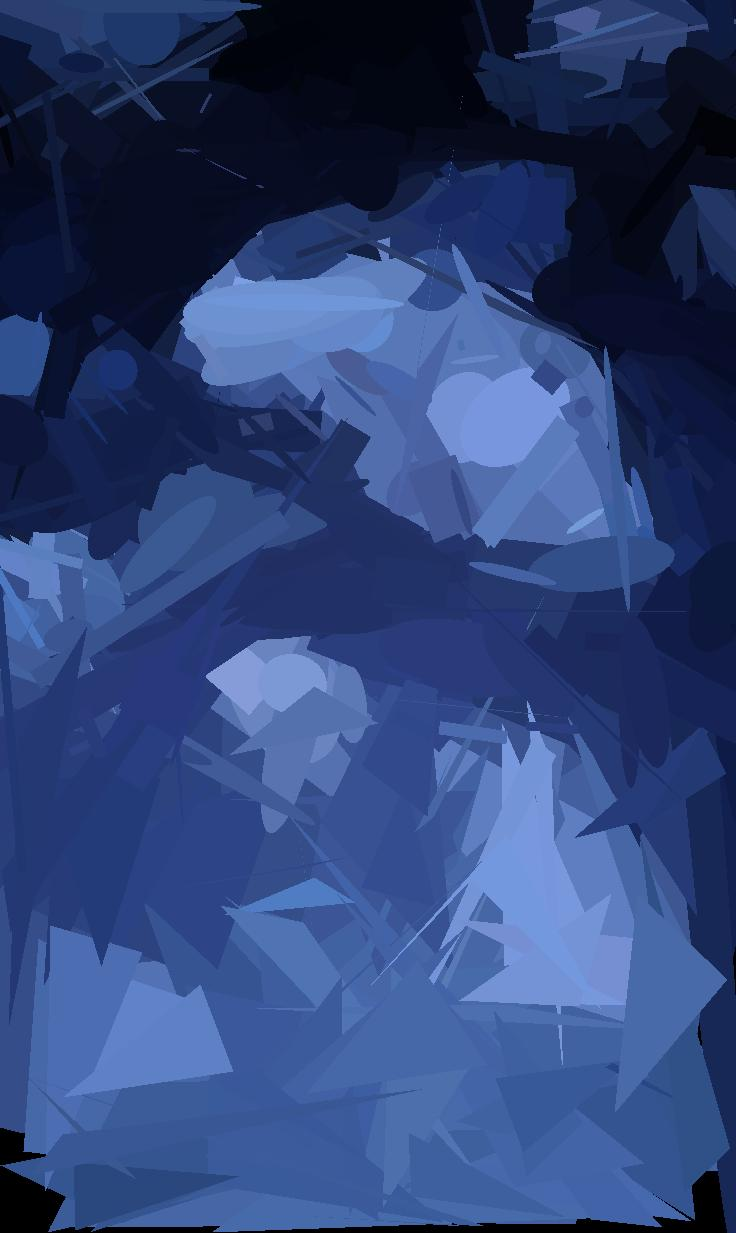
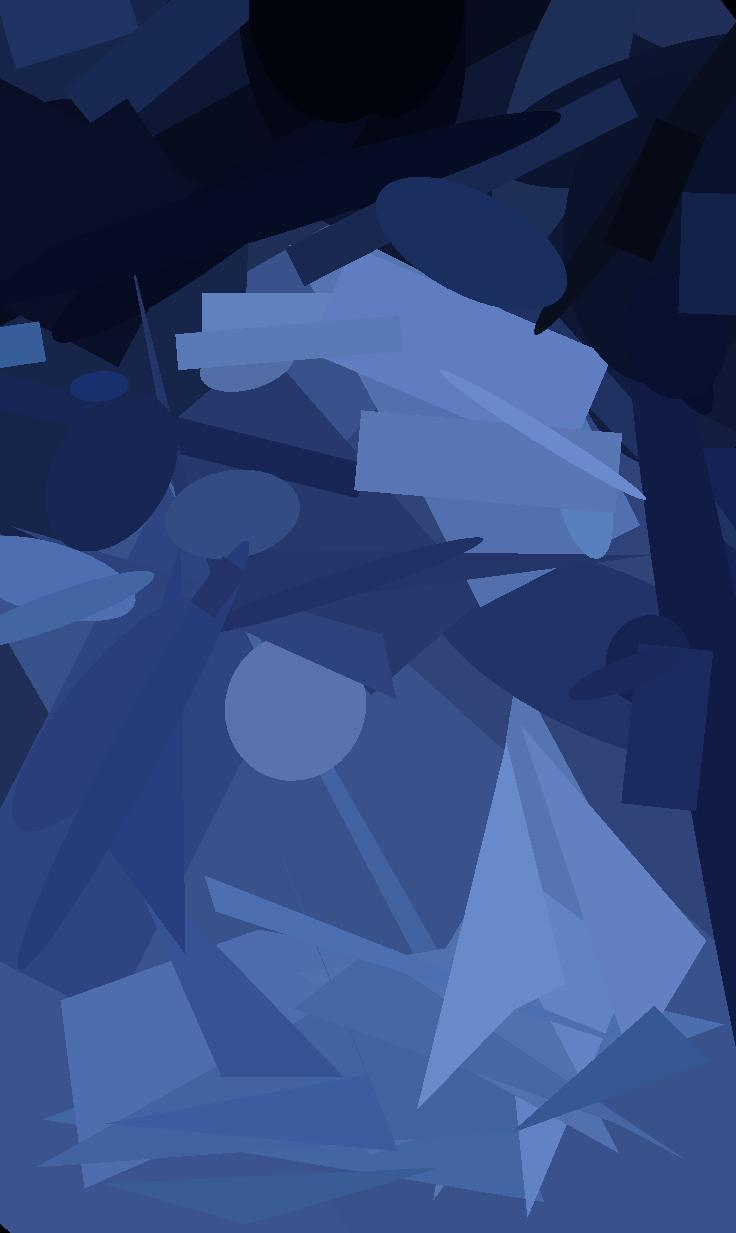
Mutations

diff --git a/Ellipse.java b/Ellipse.java
@@ -6,7 +6,7 @@ public class Ellipse extends Shape {
     Vector2 top_left;
     int angle;
 
-    public Ellipse(int width, int height, Vector2 top_left, Color color, int angle) { 
+    public Ellipse(int width, int height, Vector2 top_left, int angle, Color color) { 
         this.type = "Ellipse";
         this.color = color;
 
@@ -72,5 +72,17 @@ public class Ellipse extends Shape {
     public void print_info() {
         System.out.printf("Ellipse Info:%nWidth: %d%nHeight: %d%nTop Left: (%d, %d)%nAngle: %d degrees%n", 
         this.width, this.height, this.top_left.x, this.top_left.y, this.angle);
+    }
+
+    @Override
+    public Shape mutate(double mutation_factor) {
+        int new_width = (int) (this.width * 1 + random_factor(mutation_factor));
+        int new_height = (int) (this.height * 1 + random_factor(mutation_factor));
+        Vector2 new_position = new Vector2(this.top_left.x + (int) (this.width * random_factor(mutation_factor)), 
+                                           this.top_left.y + (int) (this.height * random_factor(mutation_factor)));
+        int new_angle = (int) (this.angle + random_factor(mutation_factor) * 10);
+        // 0.1 mutation factor results in angle variance of 10*
+
+        return new Ellipse(new_width, new_height, new_position, new_angle, this.color);
     }
 }

diff --git a/Rect.java b/Rect.java
@@ -86,4 +86,15 @@ public class Rect extends Shape {
         System.out.printf("Rectangle Info:%nWidth: %d%nHeight: %d%nTop Left: (%d, %d)%nAngle: %d degrees%n", 
         this.width, this.height, this.top_left.x, this.top_left.y, this.angle);
     }
+
+    @Override
+    public Shape mutate(double mutation_factor) {
+        int new_width = (int) (this.width * 1 + random_factor(mutation_factor));
+        int new_height = (int) (this.height * 1 + random_factor(mutation_factor));
+        Vector2 new_position = new Vector2(this.top_left.x + (int) (this.width * random_factor(mutation_factor)), 
+                                           this.top_left.y + (int) (this.height * random_factor(mutation_factor)));
+        int new_angle = (int) (this.angle + random_factor(mutation_factor) * 10);
+        // 0.1 mutation factor results in angle variance of 10*
+        return new Rect(new_width, new_height, new_position, new_angle, this.color);
+    }
 }

diff --git a/ShapeManager.java b/ShapeManager.java
@@ -161,13 +161,15 @@ public class ShapeManager {
         }
     }
 
-    public void mutate_list(ArrayList<Individual> list, float mutation_factor, int mutants_per_individual) {
+    public void mutate_list(ArrayList<Individual> list, double mutation_factor, int mutants_per_individual, BufferedImage current) {
         ArrayList<Individual> mutants_list = new ArrayList<>();
         for (Individual i : list) {
             for (int m = 0; m < mutants_per_individual; m++) {
-                mutants_list.add(i.mutate(mutation_factor));
+                Shape mutated_shape = i.shape.mutate(mutation_factor);
+                mutants_list.add(new Individual(mutated_shape, squared_evaluation(target, current, mutated_shape)));
             }
         }
+        list.addAll(mutants_list);
     }
 
     public static BufferedImage deepCopy(BufferedImage source) {

diff --git a/Polygon.java b/Polygon.java
@@ -65,4 +65,18 @@ public class Polygon extends Shape {
             System.out.printf("  Vertex %d: (%d, %d)%n", i + 1, vertices[i].x, vertices[i].y);
         }
     }
+
+    @Override
+    public Shape mutate(double mutation_factor) {
+        BoundingBox box = get_bounding_box();
+        Vector2 dimensions = box.bot_right.subtracted(box.top_left);
+        Vector2[] new_vertices = new Vector2[this.vertices.length];
+
+        for (int i = 0; i < this.vertices.length; i++) {
+            new_vertices[i] = new Vector2(this.vertices[i].x + (int) (dimensions.x * 1 + random_factor(mutation_factor)), 
+                                          this.vertices[i].y + (int) (dimensions.y * 1 + random_factor(mutation_factor)));                              
+        }
+
+        return new Polygon(new_vertices, this.angle, this.color);
+    }
 }

diff --git a/Main.java b/Main.java
@@ -21,6 +21,13 @@ public class Main {
             ArrayList<Individual> lst = sm.generate_shape_list(200, recreation);
 
             if (!lst.isEmpty()) {
+
+                for (int n = 0; n < 3; n++) {
+                    lst.sort(Comparator.comparingDouble(ind -> -ind.fitness));
+                    sm.prune_list(lst, 10);
+                    sm.mutate_list(lst, 0.1, 4, recreation);
+                    System.out.println(lst.size());
+                }
                 lst.sort(Comparator.comparingDouble(ind -> -ind.fitness));
                 Shape shape = lst.get(0).shape;
                 shape.draw(g);

diff --git a/Shape.java b/Shape.java
@@ -52,8 +52,12 @@ public class Shape {
         this.bbox = bbox;
     }
 
-    public Shape mutate(float mutation_factor) {
+    public Shape mutate(double mutation_factor) {
         throw new Error("Mutating empty shape!");
+    }
+
+    public static double random_factor(double x) {
+        return (Math.random() * 2 * x - x);
     }
 }
 
